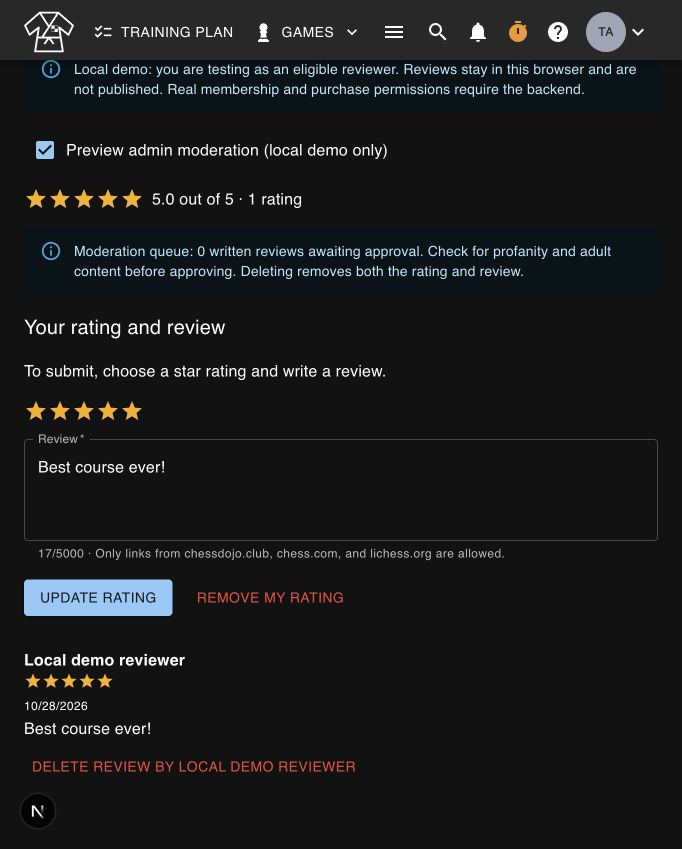
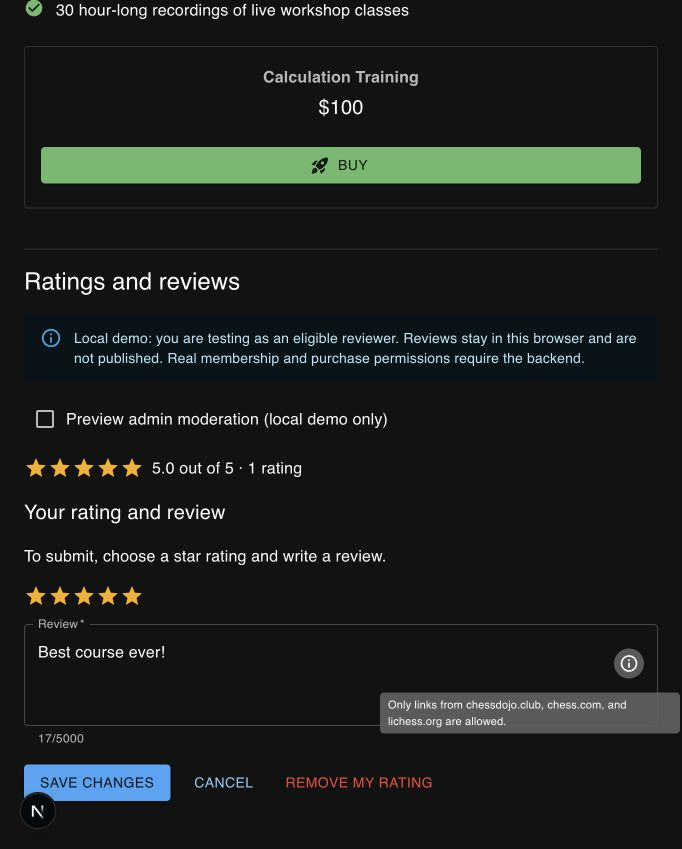
feat(courses): show saved reviews and move link rules into a tooltip

diff --git a/frontend/src/components/courses/CourseReviews.tsx b/frontend/src/components/courses/CourseReviews.tsx
@@ -17,6 +17,7 @@ import {
 } from '@/api/courseReviewDemo';
 import { hasDisallowedReviewLinks, reviewLinkMessage } from '@/api/courseReviewLinks';
 import { AuthStatus, useAuth } from '@/auth/Auth';
+import InfoOutlinedIcon from '@mui/icons-material/InfoOutlined';
 import {
     Alert,
     Box,
@@ -24,9 +25,12 @@ import {
     Checkbox,
     Divider,
     FormControlLabel,
+    IconButton,
+    InputAdornment,
     Rating,
     Stack,
     TextField,
+    Tooltip,
     Typography,
 } from '@mui/material';
 import { isAxiosError } from 'axios';
@@ -46,6 +50,7 @@ export default function CourseReviews({ type, id }: { type: string; id: string }
     const [busy, setBusy] = useState(false);
     const [error, setError] = useState('');
     const [saved, setSaved] = useState(false);
+    const [editing, setEditing] = useState(false);
     const [demoAdmin, setDemoAdmin] = useState(false);
     const canModerate = isCourseReviewDemo ? demoAdmin : !!data?.canModerate;
     const [retry, setRetry] = useState(0);
@@ -54,6 +59,7 @@ export default function CourseReviews({ type, id }: { type: string; id: string }
         if (!isCourseReviewDemo && auth.status === AuthStatus.Loading) return;
         let active = true;
         setData(undefined);
+        setEditing(false);
         setError('');
         setSaved(false);
         loadReviews(token, type, id)
@@ -98,6 +104,7 @@ export default function CourseReviews({ type, id }: { type: string; id: string }
             setData({ ...data, reviews, ownReview });
             setRating(ownReview?.rating ?? null);
             setReview(ownReview?.review ?? '');
+            setEditing(false);
             setSaved(true);
         } catch (err) {
             const message: unknown = isAxiosError<{ message?: string }>(err)
@@ -220,7 +227,7 @@ export default function CourseReviews({ type, id }: { type: string; id: string }
                             admin approval and is visible only to you and administrators.
                         </Alert>
                     )}
-                    {data.canReview ? (
+                    {data.canReview && (!data.ownReview || editing) ? (
                         <Stack
                             spacing={2}
                             component='form'
@@ -255,8 +262,27 @@ export default function CourseReviews({ type, id }: { type: string; id: string }
                                     setSaved(false);
                                 }}
                                 disabled={busy}
-                                slotProps={{ htmlInput: { maxLength: 5000 } }}
-                                helperText={`${review.length}/5000 · Only links from chessdojo.club, chess.com, and lichess.org are allowed.`}
+                                slotProps={{
+                                    htmlInput: { maxLength: 5000 },
+                                    input: {
+                                        endAdornment: (
+                                            <InputAdornment
+                                                position='end'
+                                                sx={{ alignSelf: 'flex-start', mt: 1 }}
+                                            >
+                                                <Tooltip title='Only links from chessdojo.club, chess.com, and lichess.org are allowed.'>
+                                                    <IconButton
+                                                        size='small'
+                                                        aria-label='Review link rules'
+                                                    >
+                                                        <InfoOutlinedIcon fontSize='small' />
+                                                    </IconButton>
+                                                </Tooltip>
+                                            </InputAdornment>
+                                        ),
+                                    },
+                                }}
+                                helperText={`${review.length}/5000`}
                             />
                             <Stack direction='row' spacing={2}>
                                 <Button
@@ -264,8 +290,21 @@ export default function CourseReviews({ type, id }: { type: string; id: string }
                                     variant='contained'
                                     disabled={busy || !rating || !review.trim()}
                                 >
-                                    {data.ownReview ? 'Update rating' : 'Submit rating'}
+                                    {data.ownReview ? 'Save changes' : 'Submit rating'}
                                 </Button>
+                                {data.ownReview && (
+                                    <Button
+                                        disabled={busy}
+                                        onClick={() => {
+                                            setRating(data.ownReview?.rating ?? null);
+                                            setReview(data.ownReview?.review ?? '');
+                                            setEditing(false);
+                                            setError('');
+                                        }}
+                                    >
+                                        Cancel
+                                    </Button>
+                                )}
                                 {data.ownReview && (
                                     <Button
                                         color='error'
@@ -275,6 +314,34 @@ export default function CourseReviews({ type, id }: { type: string; id: string }
                                         Remove my rating
                                     </Button>
                                 )}
+                            </Stack>
+                        </Stack>
+                    ) : data.ownReview ? (
+                        <Stack spacing={1}>
+                            <Typography variant='h6'>Your review</Typography>
+                            <Rating value={data.ownReview.rating} readOnly size='small' />
+                            <Typography sx={{ whiteSpace: 'pre-wrap', overflowWrap: 'anywhere' }}>
+                                {data.ownReview.review}
+                            </Typography>
+                            <Stack direction='row' spacing={1}>
+                                {data.canReview && (
+                                    <Button
+                                        disabled={busy}
+                                        onClick={() => {
+                                            setEditing(true);
+                                            setSaved(false);
+                                        }}
+                                    >
+                                        Edit review
+                                    </Button>
+                                )}
+                                <Button
+                                    color='error'
+                                    disabled={busy}
+                                    onClick={() => void submit(true)}
+                                >
+                                    Remove my rating
+                                </Button>
                             </Stack>
                         </Stack>
                     ) : (
@@ -301,8 +368,8 @@ export default function CourseReviews({ type, id }: { type: string; id: string }
                             (item) =>
                                 canModerate ||
                                 (item.review &&
-                                    (item.moderationStatus === 'APPROVED' ||
-                                        item.username === data.ownReview?.username)),
+                                    item.moderationStatus === 'APPROVED' &&
+                                    item.username !== data.ownReview?.username),
                         )
                         .map((item) => (
                             <Box key={item.username} sx={{ py: 2 }}>

diff --git a/frontend/src/components/courses/CourseReviews.test.tsx b/frontend/src/components/courses/CourseReviews.test.tsx
@@ -171,3 +171,24 @@ it('explains the whitelist and prevents submitting an external link', async () =
     expect(saveCourseReview).not.toHaveBeenCalled();
     expect(screen.getByRole('textbox', { name: 'Review' })).toHaveValue('See example.com');
 });
+
+it('shows a saved review until the author chooses to edit, and supports cancel', async () => {
+    vi.mocked(getCourseReviews).mockResolvedValue({
+        reviews: [{ ...own, review: 'Helpful explanations', moderationStatus: 'APPROVED' }],
+        ownReview: { ...own, review: 'Helpful explanations', moderationStatus: 'APPROVED' },
+        canReview: true,
+    });
+    render(<CourseReviews type='OPENING' id='course' />);
+    expect(await screen.findByText('Your review')).toBeInTheDocument();
+    expect(screen.queryByRole('textbox', { name: 'Review' })).not.toBeInTheDocument();
+    expect(screen.getAllByText('Helpful explanations')).toHaveLength(1);
+    fireEvent.click(screen.getByRole('button', { name: 'Edit review' }));
+    expect(screen.getByRole('textbox', { name: 'Review' })).toHaveValue('Helpful explanations');
+    fireEvent.change(screen.getByRole('textbox', { name: 'Review' }), {
+        target: { value: 'Unsaved edit' },
+    });
+    fireEvent.click(screen.getByRole('button', { name: 'Cancel' }));
+    expect(screen.queryByRole('textbox', { name: 'Review' })).not.toBeInTheDocument();
+    expect(screen.getByText('Helpful explanations')).toBeInTheDocument();
+    expect(saveCourseReview).not.toHaveBeenCalled();
+});

diff --git a/docs/course-reviews.md b/docs/course-reviews.md
@@ -8,6 +8,7 @@ Implemented on `course-ratings-reviews`, based on upstream production `main` at
 - Active Core (`BASIC`), Lecture, and Game Review members can review any published course.
 - A signed-in purchaser can review the specific course they own, including with an expired or free membership.
 - Submitting feedback is optional. Every submission requires 1–5 whole stars and a non-blank written review (maximum 5000 characters).
+- After submitting, the author sees their saved review. **Edit review** opens the editor, with **Save changes** and **Cancel** actions. Link instructions appear in an info-icon tooltip.
 - Each account has one submission per course. Saving again replaces it. Removing deletes both its stars and text.
 - Former members can remove their own submission even when they can no longer submit one.
 - Everyone can see the average rating, rating count, and written reviews on the course and purchase pages.
